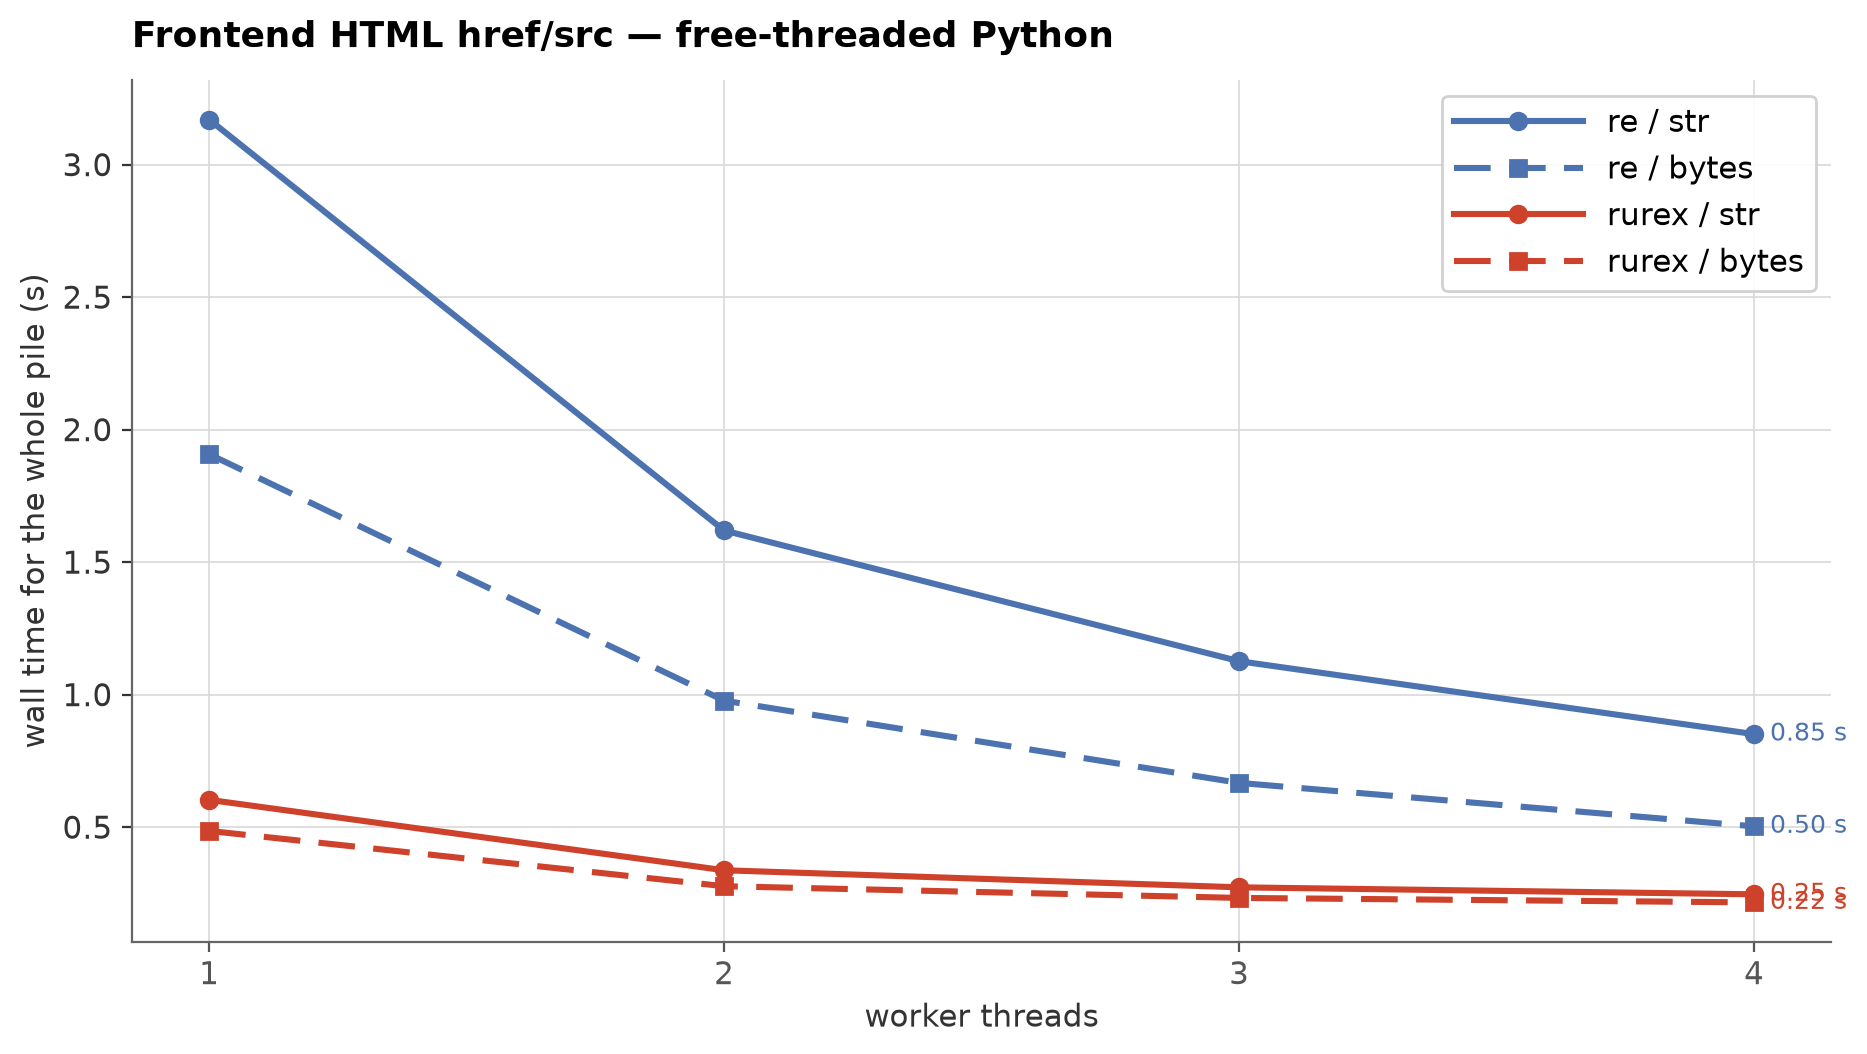
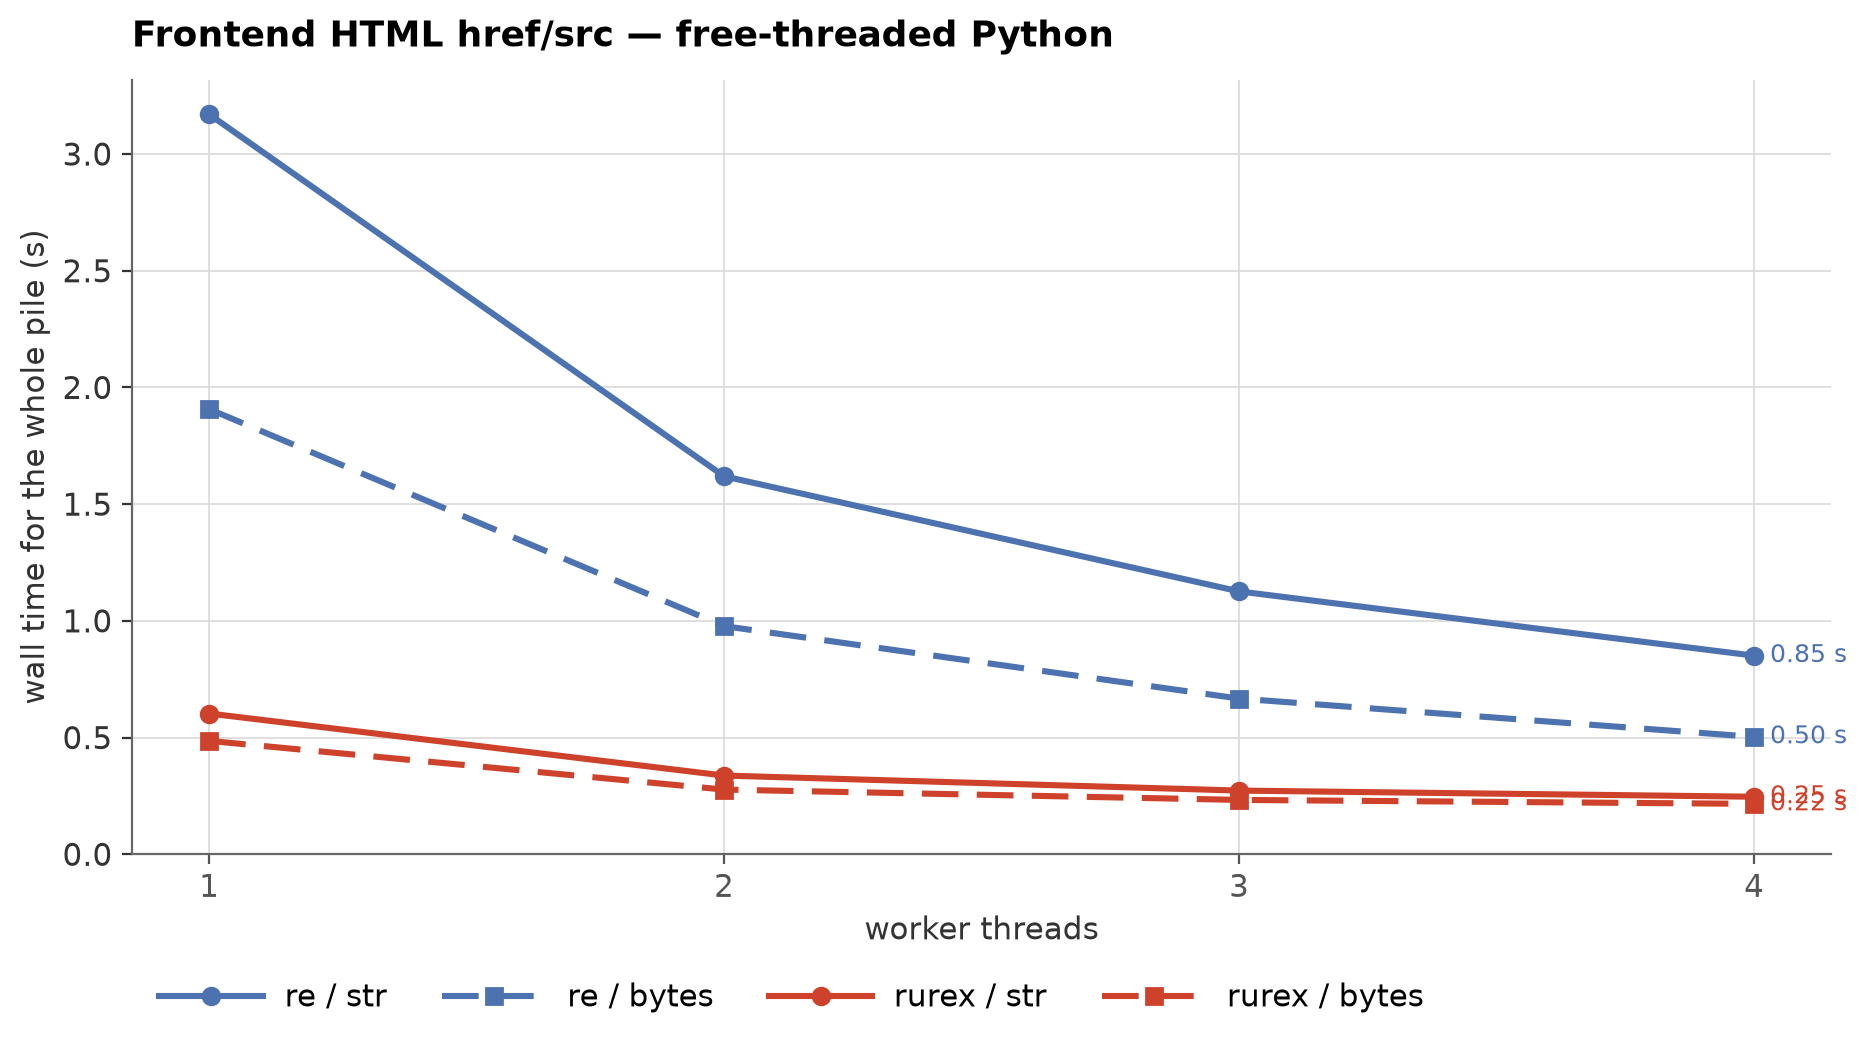
docs: anchor the homepage charts at zero and move the legend out
Same treatment as the Telegram panels: the y axis starts at zero, and
the legend no longer sits over the data. Lower-left inside the axes is
occupied here (the rurex lines run from 0.5 s down to 0.25 s), so the
legend goes in a single row below the axes, left-aligned, where it
cannot cover a line on either panel.

Only the two homepage PNGs and their chart script change; the page text
and tables are untouched.

diff --git a/benchmarks/frontend_html_charts.py b/benchmarks/frontend_html_charts.py
@@ -104,9 +104,21 @@ def chart(data, interp, out_name):
         )
     ax.set_xticks(xs)
     ax.set_xlabel("worker threads")
+    ax.set_ylim(bottom=0)
     ax.set_ylabel("wall time for the whole pile (s)")
     ax.set_title(TITLES[interp], loc="left", fontsize=13, fontweight="bold", pad=12)
-    ax.legend(loc="upper right", handlelength=4.2, handletextpad=0.8)
+    # Below the axes, left-aligned: on these panels the lower-left
+    # corner is where the rurex lines live, so an in-plot legend would
+    # cover them.
+    ax.legend(
+        loc="upper left",
+        bbox_to_anchor=(0.0, -0.13),
+        ncol=4,
+        handlelength=3.4,
+        handletextpad=0.7,
+        columnspacing=1.8,
+        frameon=False,
+    )
     fig.tight_layout()
     path = IMG / out_name
     fig.savefig(path, bbox_inches="tight")
